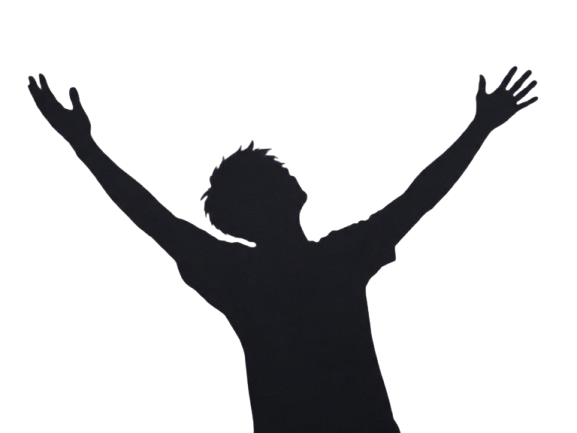
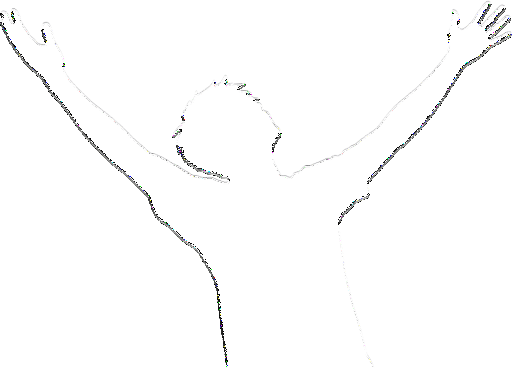
fix(podium): remove gap between silhouette and card and eliminate excessive top space

diff --git a/src/components/league/LeaderboardPodium.tsx b/src/components/league/LeaderboardPodium.tsx
@@ -94,9 +94,9 @@ export function LeaderboardPodium({ board }: { board: Leaderboard }) {
   ]
 
   return (
-    <section className="relative w-full overflow-visible py-4 sm:py-8">
+    <section className="relative w-full overflow-visible py-3 sm:py-6">
       {/* Stage Header Eyebrow */}
-      <div className="text-center mb-8 sm:mb-10">
+      <div className="text-center mb-4 sm:mb-5">
         <span className="inline-flex items-center gap-1.5 rounded-full bg-[var(--accent-soft)] px-3.5 py-1 text-[10px] font-extrabold tracking-[0.18em] uppercase text-[var(--accent-text)] border border-[var(--accent-ring)]">
           ★ {board.title} PODIUM HONOURS ★
         </span>
@@ -147,7 +147,7 @@ export function LeaderboardPodium({ board }: { board: Leaderboard }) {
               {isFirst && (
                 <div
                   aria-hidden="true"
-                  className="pointer-events-none absolute -top-12 sm:-top-16 left-1/2 -translate-x-1/2 w-64 h-64 sm:w-84 sm:h-84 rounded-full opacity-40 blur-3xl z-0"
+                  className="pointer-events-none absolute -top-8 sm:-top-10 left-1/2 -translate-x-1/2 w-64 h-64 sm:w-80 sm:h-80 rounded-full opacity-40 blur-3xl z-0"
                   style={{
                     background:
                       'radial-gradient(circle, var(--accent-solid) 0%, rgba(200, 255, 61, 0.22) 40%, transparent 70%)',
@@ -155,15 +155,15 @@ export function LeaderboardPodium({ board }: { board: Leaderboard }) {
                 />
               )}
 
-              {/* Podium Cutout Stage - Standing tall and proud directly above the card */}
+              {/* Podium Cutout Stage - Sits flush directly on top of the card without gap */}
               <div
                 className={cx(
-                  'relative w-full flex items-end justify-center pointer-events-none mb-2 sm:mb-3 overflow-visible z-20',
+                  'relative w-full flex items-end justify-center pointer-events-none -mb-0.5 overflow-visible z-20',
                   isFirst
-                    ? 'h-64 sm:h-80 md:h-96 max-w-[320px]'
+                    ? 'h-48 sm:h-56 md:h-64 max-w-[280px]'
                     : place === 2
-                      ? 'h-52 sm:h-64 md:h-80 max-w-[270px]'
-                      : 'h-44 sm:h-56 md:h-72 max-w-[250px]',
+                      ? 'h-40 sm:h-48 md:h-52 max-w-[250px]'
+                      : 'h-36 sm:h-40 md:h-44 max-w-[240px]',
                 )}
               >
                 <img
@@ -172,7 +172,7 @@ export function LeaderboardPodium({ board }: { board: Leaderboard }) {
                   loading="lazy"
                   decoding="async"
                   className={cx(
-                    'w-auto h-full max-w-full object-contain object-bottom drop-shadow-[0_16px_32px_rgba(0,0,0,0.9)] filter transition-transform duration-300 hover:scale-105',
+                    'block w-auto h-full max-w-full object-contain object-bottom drop-shadow-[0_16px_32px_rgba(0,0,0,0.9)] filter transition-transform duration-300 hover:scale-105',
                     !row && 'opacity-25',
                   )}
                 />

diff --git a/admin/src/views/LeaderboardsView.tsx b/admin/src/views/LeaderboardsView.tsx
@@ -1175,9 +1175,9 @@ function PodiumPreviewSlot({
         style={{
           position: 'relative',
           width: '100%',
-          maxWidth: isFirst ? 320 : place === 2 ? 270 : 250,
-          height: isFirst ? 320 : place === 2 ? 260 : 230,
-          marginBottom: 8,
+          maxWidth: isFirst ? 280 : place === 2 ? 250 : 240,
+          height: isFirst ? 256 : place === 2 ? 208 : 176,
+          marginBottom: -2,
           zIndex: 2,
           display: 'flex',
           justifyContent: 'center',
